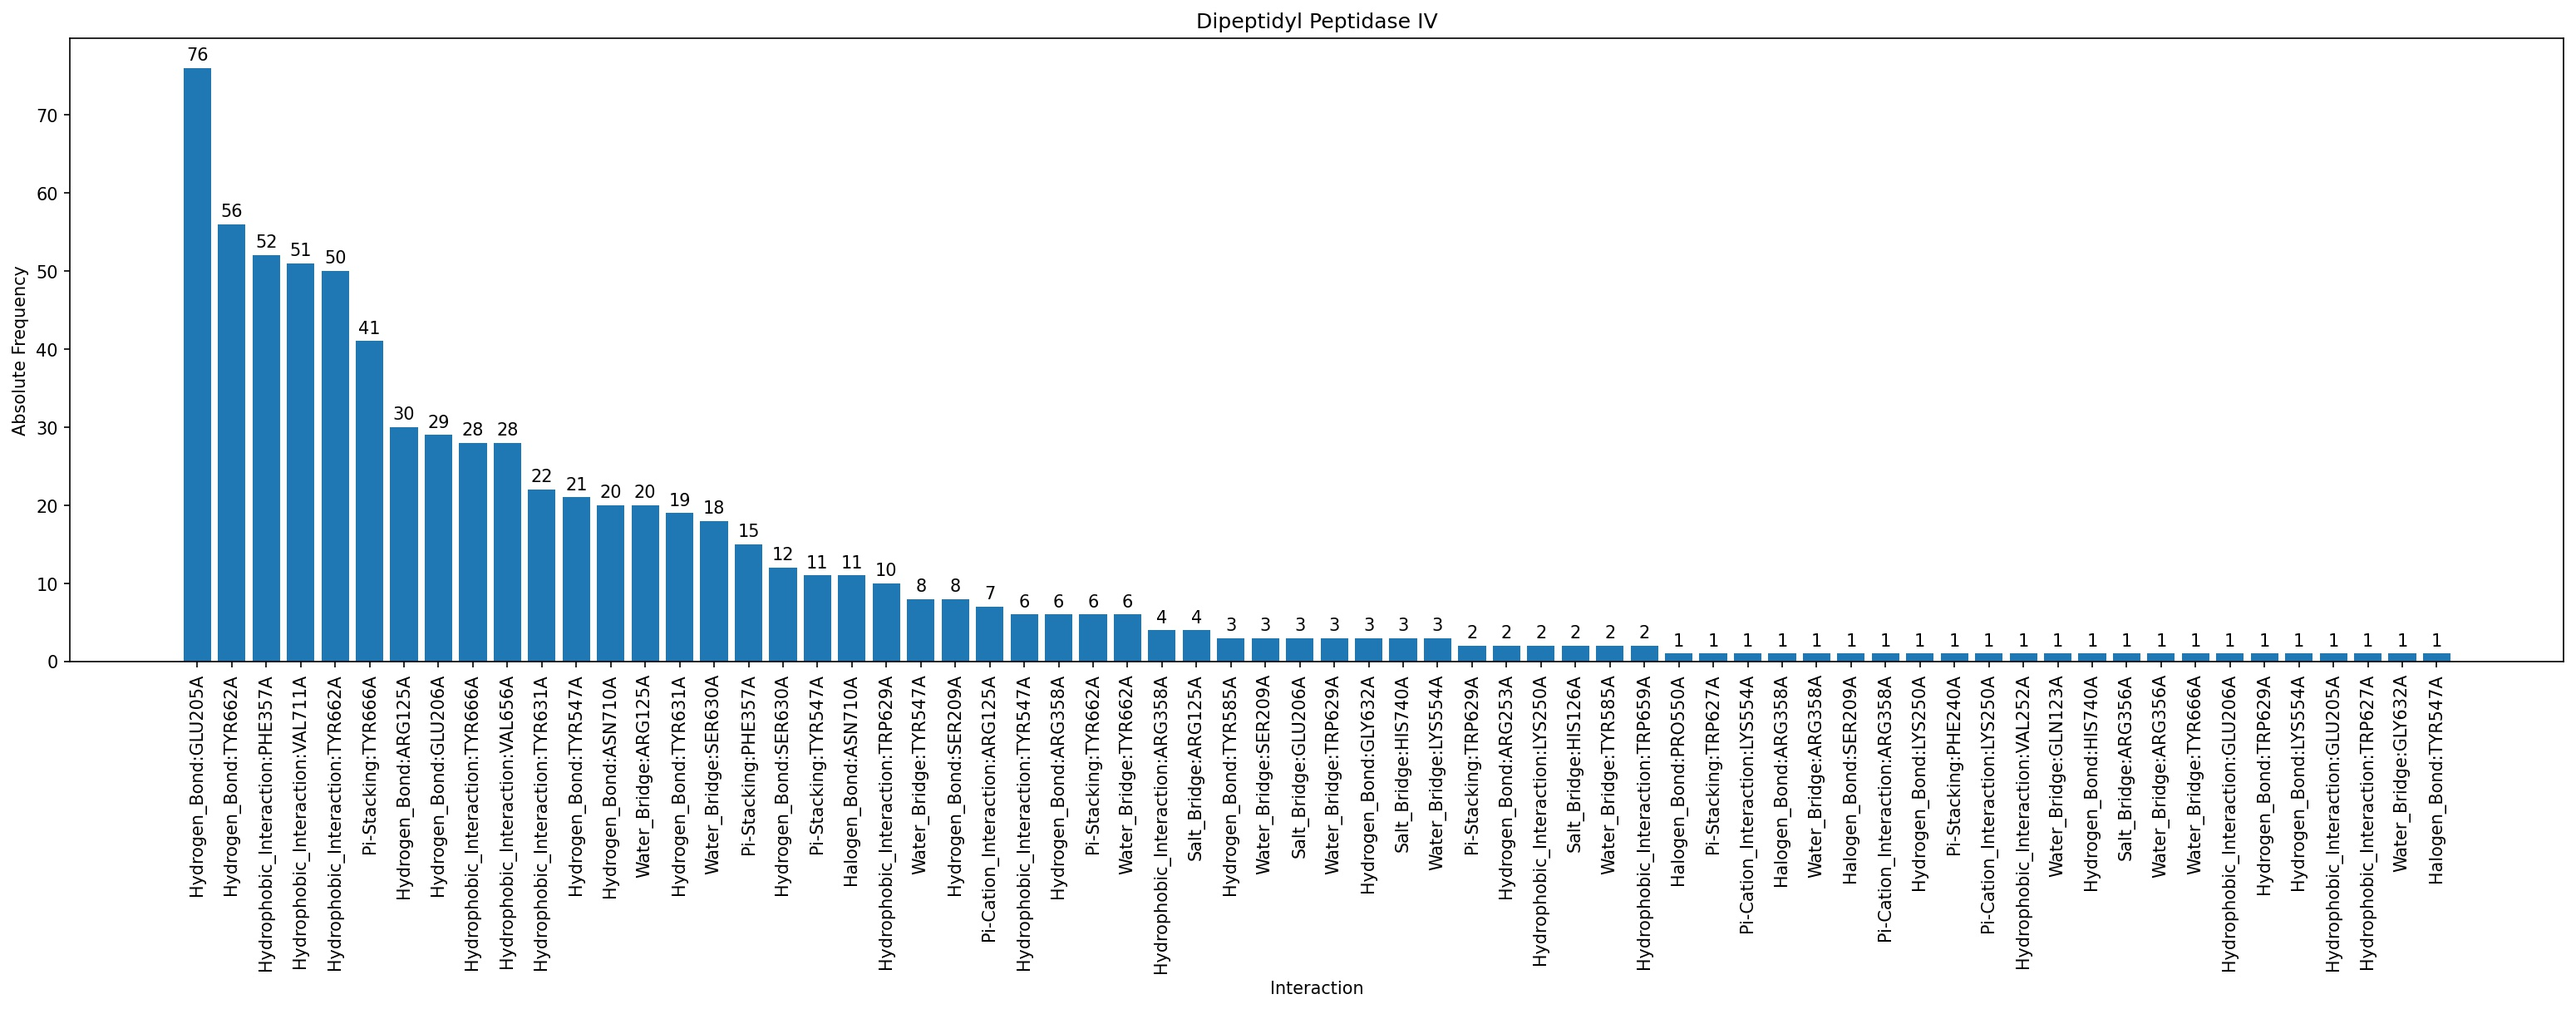
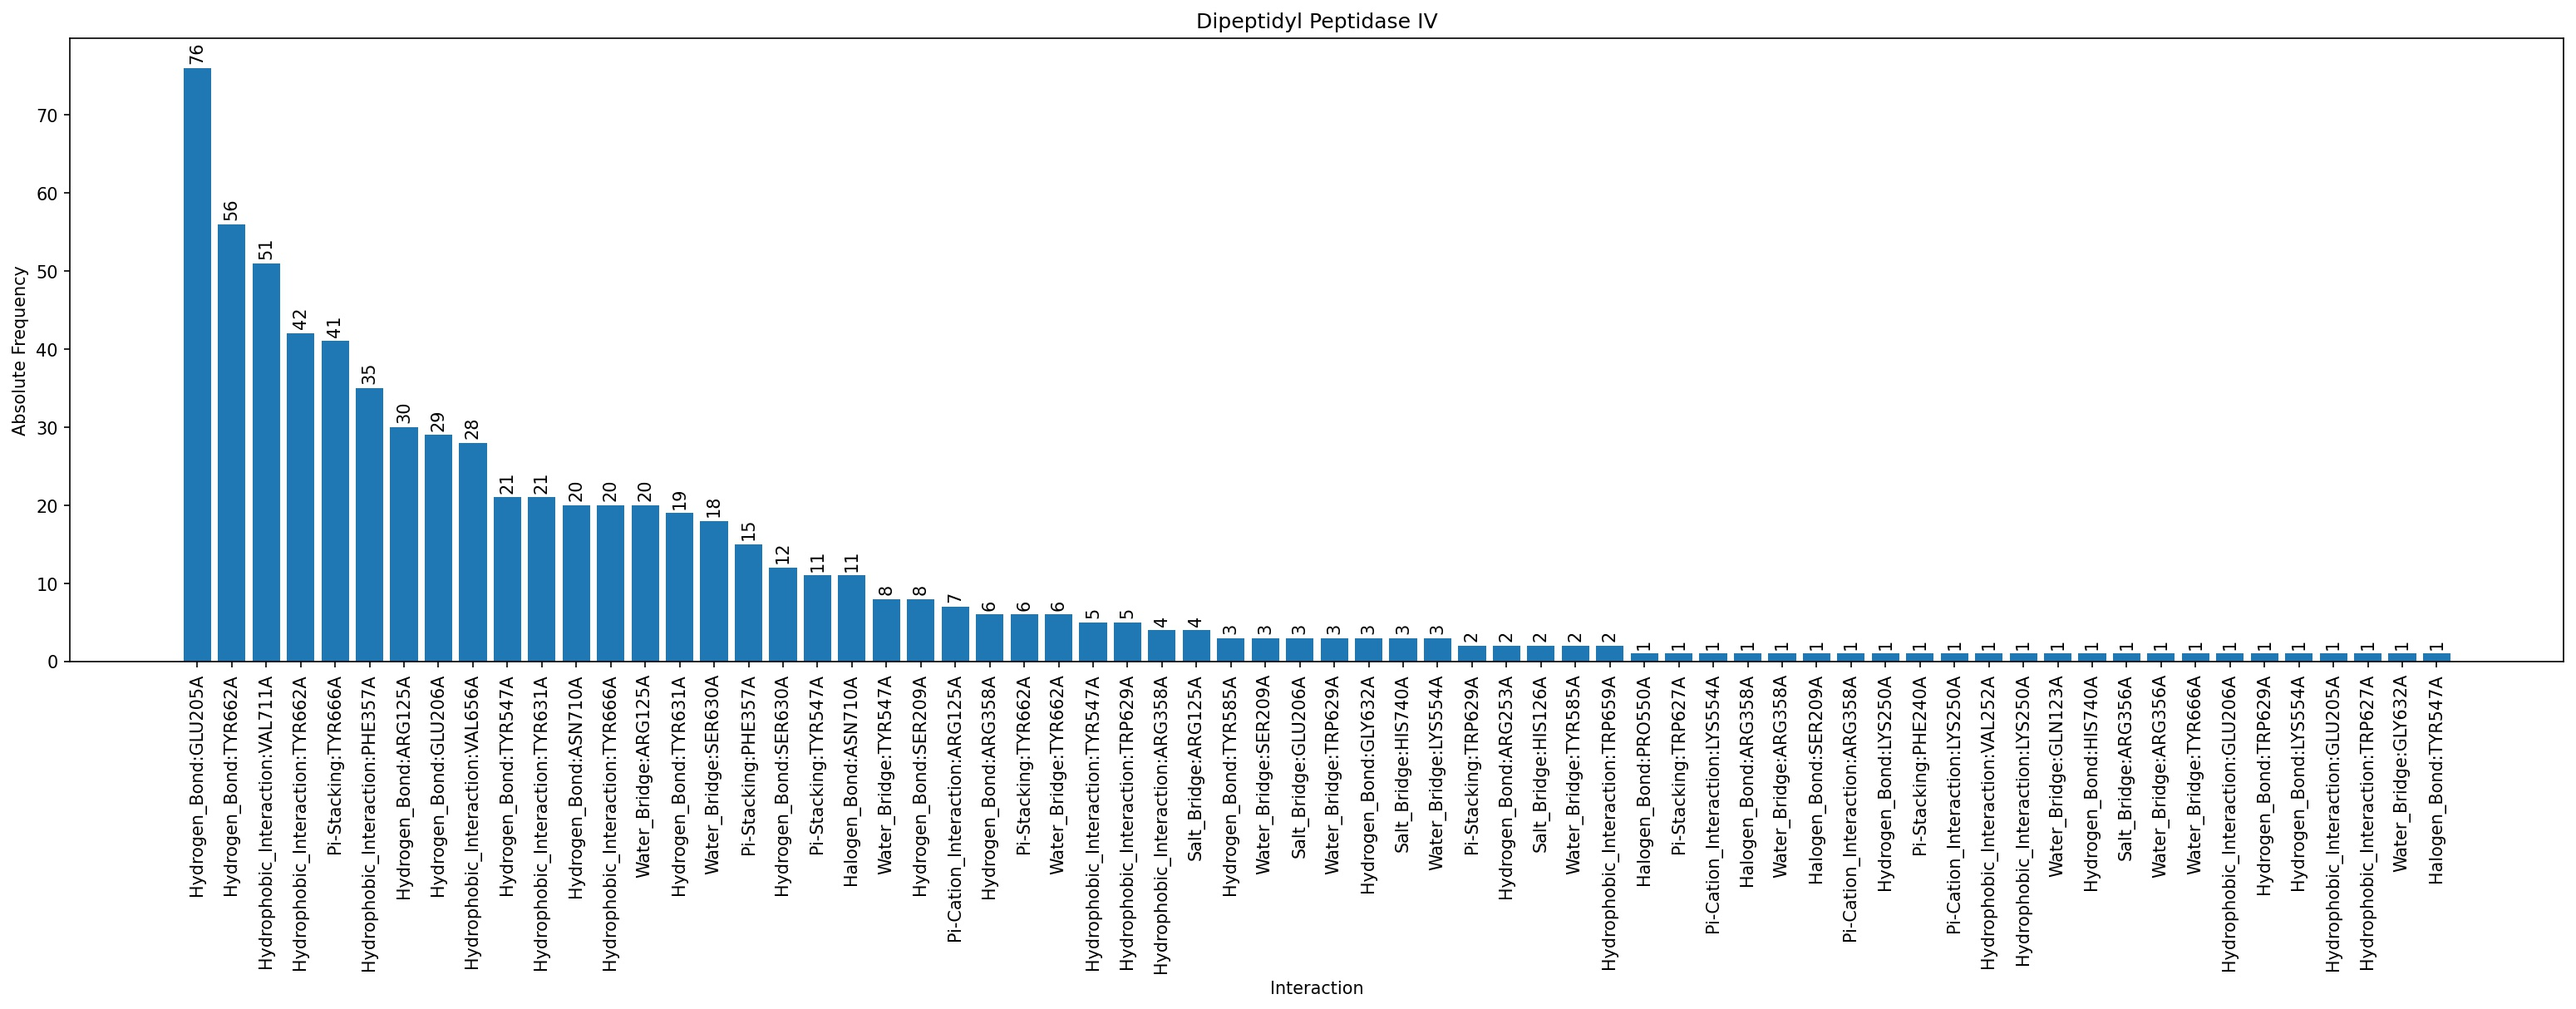
bump DPP4 results to newer version

diff --git a/data/dipeptidyl_peptidase_IV/plip_analysis.py b/data/dipeptidyl_peptidase_IV/plip_analysis.py
@@ -22,13 +22,21 @@ if __name__ == '__main__':
     PDB_ENTRIES = list(df["PDB_ENTRY"])
     print("First 5 PDB entries:")
     print(PDB_ENTRIES[:5])
-    result = pa(PDB_ENTRIES, path = "structures")
+    result = pa(PDB_ENTRIES, path = "structures", normalize = False)
     r = result.save("results/dipeptidyl_peptidase_IV")
     print("Result saved in:")
     print(r)
     r = result.to_csv("results/dipeptidyl_peptidase_IV_freq.csv")
     result.plot("Dipeptidyl Peptidase IV", filename = "results/dipeptidyl_peptidase_IV.jpg")
     result.plot("Dipeptidyl Peptidase IV", filename = "results/dipeptidyl_peptidase_IV.png")
+    # normalized analysis
+    result = pa(PDB_ENTRIES, path = "structures", normalize = True)
+    r = result.save("results/dipeptidyl_peptidase_IV_normalized")
+    print("Result saved in:")
+    print(r)
+    r = result.to_csv("results/dipeptidyl_peptidase_IV_normalized_freq.csv")
+    result.plot("Dipeptidyl Peptidase IV", filename = "results/dipeptidyl_peptidase_IV_normalized.jpg")
+    result.plot("Dipeptidyl Peptidase IV", filename = "results/dipeptidyl_peptidase_IV_normalized.png")
 
     # clean up
     os.remove("PLIPAnalyzer.py")
